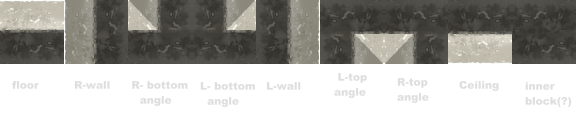
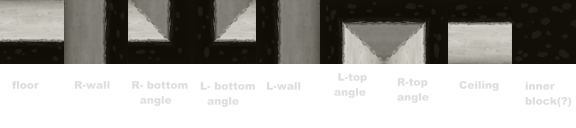
Buttons!

diff --git a/GXPEngine2023c/GXPEngine/PressurePlate.cs b/GXPEngine2023c/GXPEngine/PressurePlate.cs
@@ -17,6 +17,7 @@ public class PressurePlate : AnimationSprite
     public bool triggered = false;
     public bool completed = false;
     public string plateGroupID;
+    private Sprite toggledPlate = new Sprite("PressedPlate.png", false, false);
 
     //When triggered, run a funciton to check all other pressureplates with the same groupID, if they are all triggered, set all to Complete
 
@@ -27,6 +28,10 @@ public class PressurePlate : AnimationSprite
 
         plateGroupID = tiledObject.GetStringProperty("plateGroupID", "");
         Constants.plates.Add(this);
+
+        toggledPlate.alpha = 0;
+        toggledPlate.SetOrigin(toggledPlate.width / 2, toggledPlate.height / 2);
+        AddChild(toggledPlate);
     }
 
     public void setComplete()
@@ -36,14 +41,21 @@ public class PressurePlate : AnimationSprite
 
     public void checkToggle()
     {
+        if(!completed)
+        {
+            alpha = 1;
+            toggledPlate.alpha = 0;
+        }
+        bool hasCollisions = false;
         GameObject[] collisions = GetCollisions();
         for (int i = 0; i < collisions.Length; i++)
         {
             if (collisions[i].GetType() == typeof(Player) || collisions[i].GetType() == typeof(Movable))
             {
-
-
+                hasCollisions = true;
                 triggered = true;
+                alpha = 0;
+                toggledPlate.alpha = 1;
 
                 bool allTriggered = true;
 
@@ -70,10 +82,11 @@ public class PressurePlate : AnimationSprite
                     }
                 }
 
-            } else
-            {
-                triggered = false;
             }
+        }
+        if(hasCollisions == false)
+        {
+            triggered = false;
         }
     }
 

diff --git a/GXPEngine2023c/GXPEngine/MyGame.cs b/GXPEngine2023c/GXPEngine/MyGame.cs
@@ -25,6 +25,7 @@ public class MyGame : Game
     {
         soundSystem = Constants.soundSystem;
 
+
         channel1 = soundSystem.CreateStream("audio/Song_start_location.mp3", true);
         channel2 = soundSystem.CreateStream("audio/Song_hallway_with_doors.mp3", true);
         channel3 = soundSystem.CreateStream("audio/Song_higher_background_with_two_platforms.mp3", true);
@@ -114,11 +115,15 @@ public class MyGame : Game
         if (nextLevel != null)
         {
             DestroyAll();
+            Sprite background = new Sprite("BG1.png",false,false);
+            background.SetOrigin(background.width / 2, background.height / 2);
+            background.SetXY(400, 400);
+            AddChild(background);
             SetSound();
             Constants.level = new TiledLevel(nextLevel);
             AddChild(Constants.level);
             Constants.ui = new UI();
-            AddChild(Constants.ui);
+            //AddChild(Constants.ui);
             currentLevel = nextLevel;
             nextLevel = null;
 
@@ -185,10 +190,6 @@ public class MyGame : Game
             //LoadLevel(Constants.level1);
             LoadLevel(currentLevel);
             Constants.dead = false;
-        }
-        if(Constants.level != null)
-        {
-            Constants.level.Update();
         }
     }
 

diff --git a/GXPEngine2023c/GXPEngine/Button.cs b/GXPEngine2023c/GXPEngine/Button.cs
@@ -20,6 +20,7 @@ public class Button : AnimationSprite
     public float yPos;
     public bool triggered = false;
     public string buttonID;
+    private Sprite toggledButton = new Sprite("PressedButton.png",false,false);
 
     public Button(string imageFile, int columns, int rows, TiledObject tiledObject = null) : base(imageFile, columns, rows)
     {
@@ -29,10 +30,14 @@ public class Button : AnimationSprite
 
         buttonID = tiledObject.GetStringProperty("buttonID", "");
         Constants.buttons.Add(this);
+        toggledButton.visible = false;
+        toggledButton.SetOrigin(toggledButton.width/2,toggledButton.height/2);
+        AddChild(toggledButton);
     }
 
     public void checkToggle()
     {
+        triggered = false;
         GameObject[] collisions = GetCollisions();
         for (int i = 0; i < collisions.Length; i++)
         {
@@ -41,6 +46,8 @@ public class Button : AnimationSprite
 
 
                 triggered = true;
+                alpha = 0;
+                toggledButton.visible = true;
                 int index = Constants.buttons.FindIndex(a => a == this);
 
 

diff --git a/GXPEngine2023c/GXPEngine/TiledLevel.cs b/GXPEngine2023c/GXPEngine/TiledLevel.cs
@@ -40,6 +40,8 @@ internal class TiledLevel : GameObject
         Constants.levelHeight = loader.map.Height * loader.map.TileHeight;
         Constants.levelWidth = loader.map.Width * loader.map.TileWidth;
 
+
+
         /*
         Map map = MapParser.ReadMap(MapName);
         //ObjectGroup objectGroup = map.ObjectGroups[0];

diff --git a/GXPEngine2023c/GXPEngine/Constants.cs b/GXPEngine2023c/GXPEngine/Constants.cs
@@ -69,7 +69,7 @@ namespace GXPEngine
 
 
         // MAP NAMES FOR TILED
-        public static string level1 = "Level1.tmx";
+        public static string level1 = "Level1B.tmx";
         public static string level2 = "map.tmx";
         public static string level3 = "3.tmx";
         public static string level4 = "4.tmx";

diff --git a/GXPEngine2023c/GXPEngine/Collectable.cs b/GXPEngine2023c/GXPEngine/Collectable.cs
@@ -25,6 +25,7 @@ public class Collectable : AnimationSprite
 
     public Collectable(string imageFile, int columns, int rows, TiledObject tiledObject = null) : base(imageFile, columns, rows)
     {
+        imageFile = "terrain.png";
 
         SetOrigin(width / 2, height / 2);
         collider.isTrigger = true;

diff --git a/GXPEngine2023c/GXPEngine/Level.cs b/GXPEngine2023c/GXPEngine/Level.cs
@@ -110,8 +110,7 @@ public class Level : GameObject
     }
 
     void Update()
-    {
-        
+    {        
         HandleScroll();
         checkPuzzles();
         ui.updateHUD();
